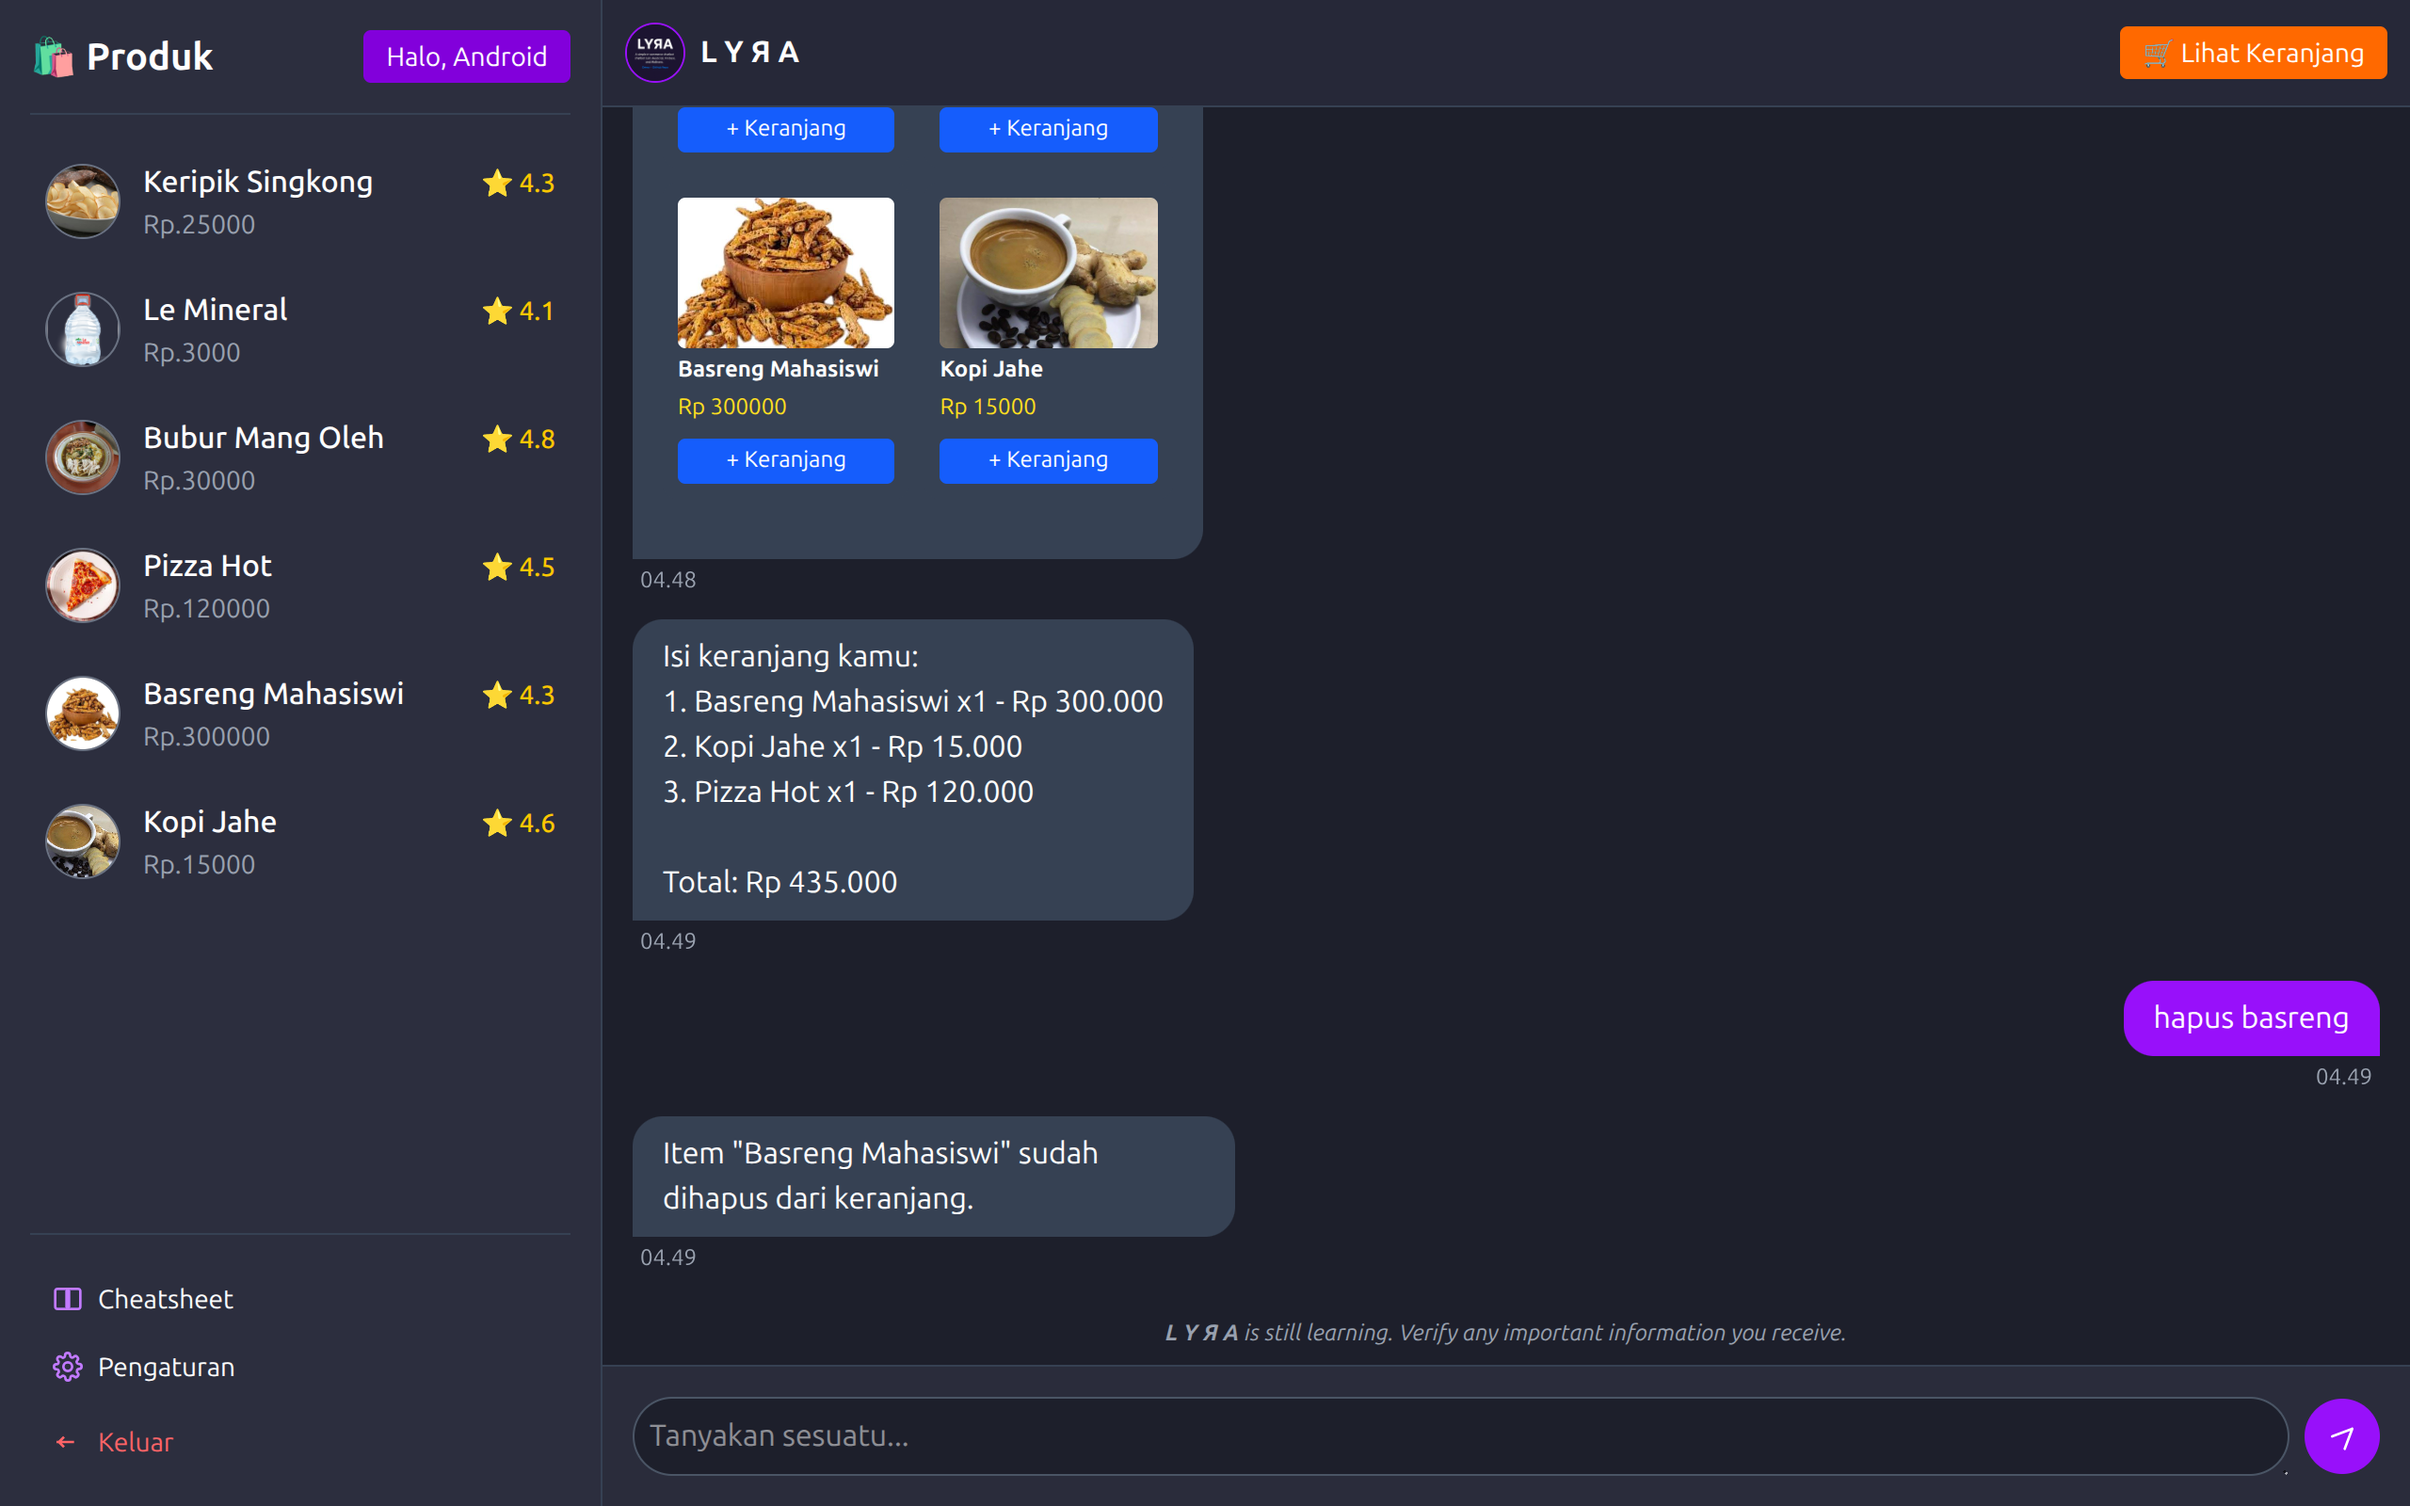
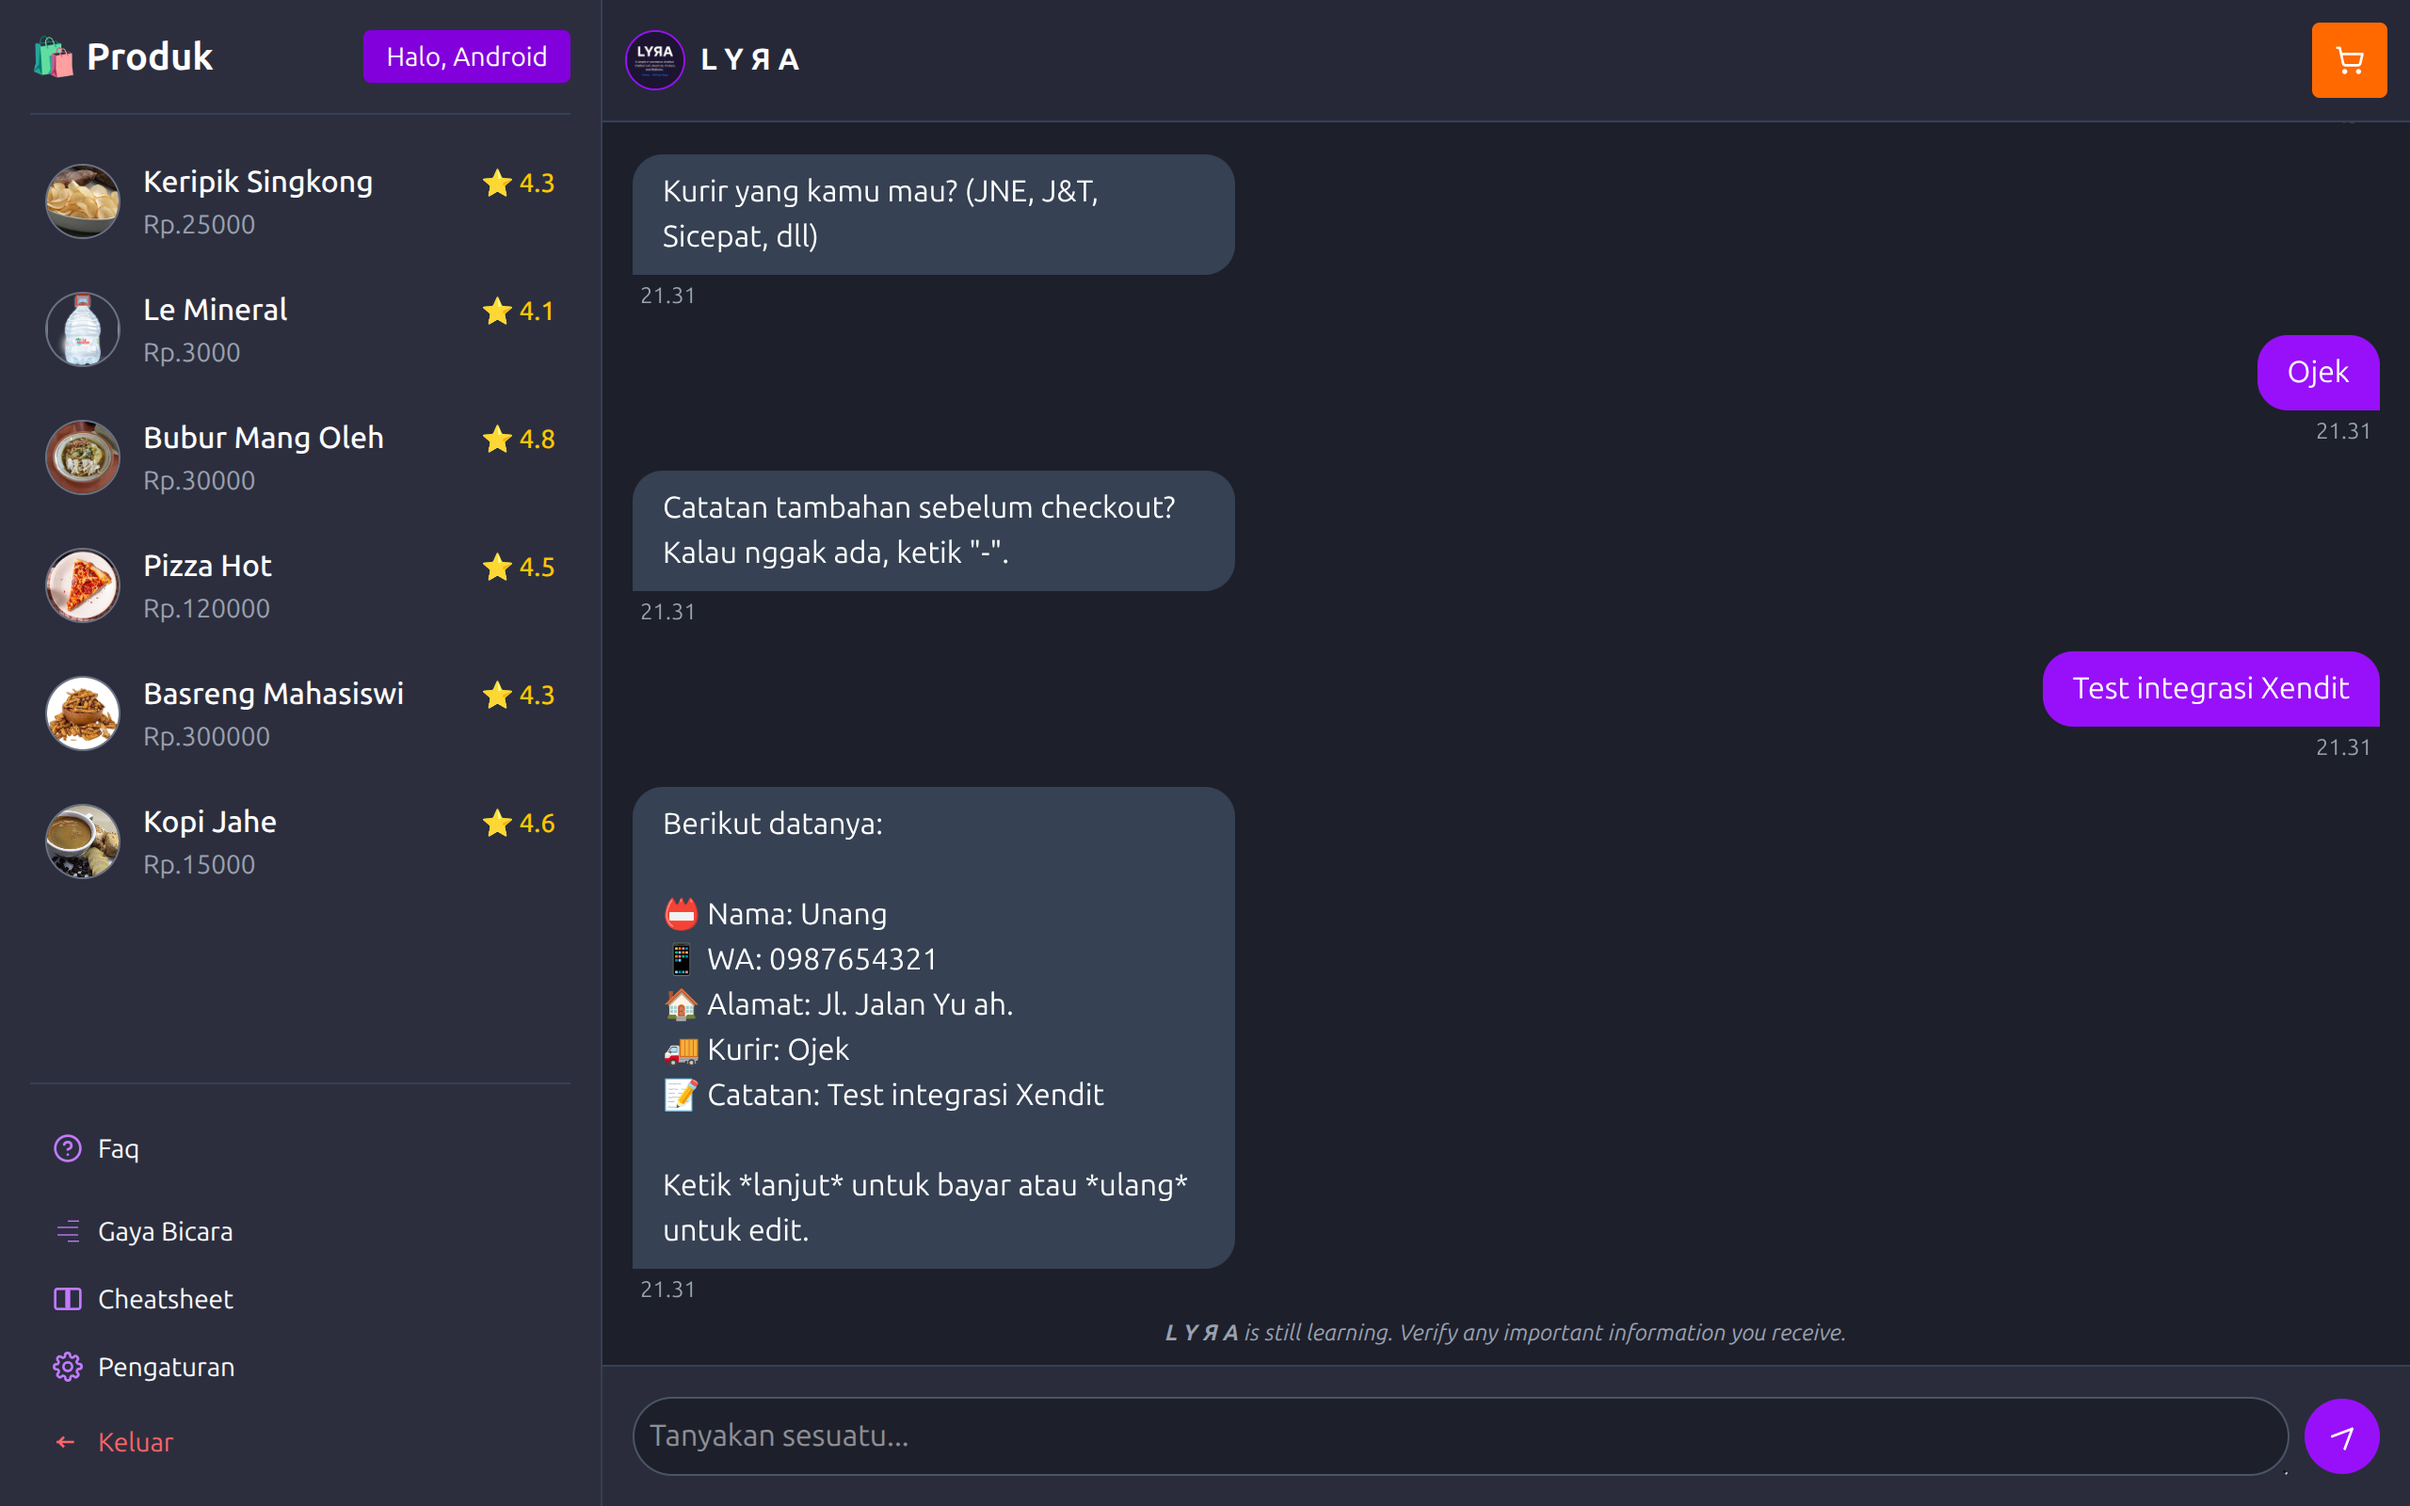
Checkout Flow & Integrasi with Xendit ? Done

diff --git a/src/pages/ChatTelegram.js b/src/pages/ChatTelegram.js
@@ -432,6 +432,22 @@ function generateProductTeaser(product) {
   return teasers[Math.floor(Math.random() * teasers.length)];
 }
 
+document.getElementById('openFaq')?.addEventListener('click', () => {
+  const modal = document.getElementById('faqModal');
+  modal.classList.remove('hidden');
+  setTimeout(() => {
+    modal.querySelector('div').classList.remove('opacity-0', 'scale-95');
+  }, 50);
+});
+
+document.getElementById('closeFaq')?.addEventListener('click', () => {
+  const modal = document.getElementById('faqModal');
+  modal.querySelector('div').classList.add('opacity-0', 'scale-95');
+  setTimeout(() => {
+    modal.classList.add('hidden');
+  }, 300);
+});
+
 function openProductModal(product) {
   document.getElementById('modal-image').src = product.img || '/default.jpg';
   document.getElementById('modal-title').textContent = product.name;
@@ -588,9 +604,9 @@ return `
         <div class="relative bottom-0 left-0">
         <div class="mt-auto pt-4 border-t border-gray-700">
         <!-- Dark/Light mode toggle button -->
-        <button id="themeToggle" class="cursor-pointer flex items-center gap-2 w-full text-sm px-3 py-2 hover:bg-gray-700 rounded-lg transition mb-2">
+        <button id="openFaq" class="cursor-pointer flex items-center gap-2 w-full text-sm px-3 py-2 hover:bg-gray-700 rounded-lg transition mb-2">
         <svg class="w-4 h-4 text-purple-400" xmlns="http://www.w3.org/2000/svg" width="24" height="24" viewBox="0 0 24 24" fill="none" stroke="currentColor" stroke-width="2" stroke-linecap="round" stroke-linejoin="round" class="lucide lucide-circle-question-mark-icon lucide-circle-question-mark"><circle cx="12" cy="12" r="10"/><path d="M9.09 9a3 3 0 0 1 5.83 1c0 2-3 3-3 3"/><path d="M12 17h.01"/></svg>
-          <span id="themeLabel">Faq</span>
+          <span>Bantuan & Faq</span>
         </button>
         <button id="toggleStyle" class=" cursor-pointer flex items-center gap-2 w-full text-sm px-3 py-2 hover:bg-gray-700 rounded-lg transition">
           <svg class="w-4 h-4 text-purple-400" xmlns="http://www.w3.org/2000/svg" fill="none" viewBox="0 0 24 24" stroke="currentColor">
@@ -659,6 +675,40 @@ return `
        </div>
        </div>
 
+      <div id="faqModal" class="fixed inset-0 z-50 hidden bg-black/50 backdrop-blur-sm flex items-center justify-center">
+        <div class="bg-[#2c2e3e] text-white rounded-lg w-11/12 max-w-lg p-6 shadow-lg transform opacity-0 scale-95 transition-all duration-300">
+          <div class="flex justify-between items-center mb-4">
+            <h2 class="text-lg font-bold">❓ Pertanyaan Umum (FAQ)</h2>
+            <button id="closeFaq" class="text-gray-400 hover:text-white cursor-pointer">
+              <svg xmlns="http://www.w3.org/2000/svg" class="lucide lucide-x w-6 h-6" fill="none" viewBox="0 0 24 24" stroke="currentColor" stroke-width="2">
+                <path d="M18 6 6 18"/><path d="M6 6l12 12"/>
+              </svg>
+            </button>
+          </div>
+          <div class="text-sm space-y-4 max-h-[70vh] overflow-y-auto pr-2">
+            <div>
+              <strong>Apa itu L Y Я A?</strong>
+              <p>L Y Я A adalah asisten AI interaktif yang bisa bantu kamu cari produk, melakukan checkout, dan tanya-tanya seputar toko online ini.</p>
+            </div>
+            <div>
+              <strong>Bagaimana cara belanja?</strong>
+              <p>Kamu bisa klik produk di sidebar atau ketik nama produk di chat. Lalu tambahkan ke keranjang dan ketik <code>checkout</code>.</p>
+            </div>
+            <div>
+              <strong>Apa bisa bayar langsung?</strong>
+              <p>Ya! Setelah checkout, kamu bisa bayar lewat Midtrans atau Xendit melalui tautan pembayaran yang muncul di chat.</p>
+            </div>
+            <div>
+              <strong>Batasan user gratis?</strong>
+              <p>User anonim bisa chat maksimal 10x. Login untuk akses lebih banyak fitur!</p>
+            </div>
+            <div>
+              <strong>Data saya aman?</strong>
+              <p>Tentu! Data kamu tidak akan disalahgunakan. Kami hanya menyimpan informasi yang diperlukan untuk proses transaksi.</p>
+            </div>
+          </div>
+        </div>
+      </div>
       <div id="product-modal" class="fixed inset-0 z-50 hide  bg-black/50 backdrop-blur-sm flex items-center justify-center">
         <div id="modal-content" class="bg-[#2a2c3b] opacity-0 scale-95 relative rounded-2xl w-full max-w-xl mx-4 md:mx-auto md:w-[600px] overflow-hidden shadow-lg transition-all">
           <button id="modal-close" class="absolute cursor-pointer top-2 right-4 text-red-800 text-4xl">&times;</button>

diff --git a/src/modules/checkoutHandler.js b/src/modules/checkoutHandler.js
@@ -82,7 +82,7 @@ export async function handleCheckoutInput(text, cartItems) {
     }
 
     if (/lanjut/i.test(text)) {
-      respondWithTyping({ text: 'Siap! Aku lagi proses ke Midtrans ya...' });
+      respondWithTyping({ text: 'Siap! Aku lagi proses ke Xendit ya...' });
 
       try {
         await fetch('https://flat-river-1322.cbp629tmm2.workers.dev/', {
@@ -91,28 +91,44 @@ export async function handleCheckoutInput(text, cartItems) {
           body: JSON.stringify({ checkout: checkoutData, cart: cartItems })
         });
 
-        const res = await fetch('http://localhost:3000/api/checkout', {
+        const res = await fetch('https://weathered-pond-49ef.cbp629tmm2.workers.dev/', {
           method: 'POST',
           headers: { 'Content-Type': 'application/json' },
           body: JSON.stringify({ user: checkoutData, cart: cartItems })
         });
 
+
         if (!res.ok) {
-          console.error('Midtrans request failed:', res.status);
-          respondWithTyping({ text: 'Ups! Gagal kirim ke Midtrans 😓' });
+          console.error('Xendit request failed:', res.status);
+          respondWithTyping({ text: 'Ups! Gagal kirim ke Xendit 😓' });
           return true;
         }
 
         const json = await res.json();
 
-        if (!json.snapToken) {
-          respondWithTyping({ text: 'Midtrans tidak memberikan token 😥. Coba lagi ya.' });
-          return true;
-        }
+        if (json.invoice_url) {
+        const totalHarga = Object.values(cartItems).reduce((sum, item) => sum + (item.price * item.qty), 0);
+        const itemList = Object.values(cartItems).map((item, i) => {
+        return `${i + 1}. ${item.name} x${item.qty} - Rp ${item.price * item.qty}`;
+        }).join('<br>');
 
         respondWithTyping({
-          html: `<a href="#" onclick="snap.pay('${json.snapToken}')" class="text-blue-400 underline">Klik di sini untuk bayar via Midtrans</a>`
+        sender: 'lyra',
+        html: `
+            <div class="text-sm leading-relaxed">
+            <strong>🧾 Pesanan kamu:</strong><br>
+            ${itemList}<br><br>
+            <strong>💰 Total: Rp ${totalHarga.toLocaleString('id-ID')}</strong><br><br>
+            <a href="${json.invoice_url}" target="_blank" class="inline-block mt-2 bg-blue-600 text-white px-4 py-2 rounded hover:bg-blue-700 transition">
+                👉 Klik di sini untuk bayar via Xendit
+            </a>
+            </div>
+        `
         });
+        } else {
+        respondWithTyping({ sender: 'lyra', text: 'Xendit tidak memberikan tautan pembayaran 😥. Coba lagi ya.' });
+        }
+
 
         checkoutStep = 0;
         checkoutData = {};

diff --git a/public/success.html b/public/success.html
@@ -1,0 +1,31 @@
+<!DOCTYPE html>
+<html lang="id">
+<head>
+  <meta charset="UTF-8" />
+  <meta name="viewport" content="width=device-width, initial-scale=1.0" />
+  <title>Pembayaran Berhasil | LYRA</title>
+  <link rel="icon" href="/logo.png" />
+  <link href="https://cdn.jsdelivr.net/npm/tailwindcss@2.2.19/dist/tailwind.min.css" rel="stylesheet">
+</head>
+<body class="bg-[#1d1f2b] text-white transition-colors duration-300 min-h-screen flex flex-col items-center justify-center p-6 text-center" style="background: #1d1f2b;">
+  <img src="/logo.png" alt="LYRA Logo" class="w-16 h-16 rounded-full border border-purple-500 mb-4" />
+  
+  <h1 class="text-2xl md:text-3xl font-bold text-green-400">🎉 Pembayaran Berhasil!</h1>
+  <p class="mt-2 text-sm md:text-base text-gray-300">Terima kasih sudah belanja di toko kami. Pesananmu sedang kami proses! 🚚</p>
+
+  <div class="mt-4">
+    <p class="text-sm text-gray-400">🧾 ID Pesanan:</p>
+    <p id="orderId" class="text-yellow-300 font-mono text-lg">memuat...</p>
+  </div>
+
+  <a href="/" class="mt-8 inline-block bg-purple-600 hover:bg-purple-700 text-white px-6 py-2 rounded-lg transition">
+    Kembali ke Beranda
+  </a>
+
+  <script>
+    const params = new URLSearchParams(window.location.search);
+    const orderId = params.get("order_id");
+    document.getElementById("orderId").textContent = orderId || 'Tidak tersedia';
+  </script>
+</body>
+</html>

diff --git a/src/modules/intentHandler.js b/src/modules/intentHandler.js
@@ -97,9 +97,9 @@ export function generateTone(text, style = 'default') {
 export const LYRA_PROFILE = {
   name: 'Lyra',
   age: 'sekitar awal 20-an',
-  role: 'asisten AI yang ramah dari toko ini',
-  style: 'smart, suka menawarkan produk yang ada di sidebar, dan siap bantuin apa aja',
-  motto: 'Best seller, Better store!'
+  role: 'sales AI yang ramah dari toko ini',
+  style: 'smart, suka menawarkan produk yang ada di sidebar & database, dan siap bantuin apa aja',
+  motto: 'Best sales, Better store!'
 };
 
 export function generatePersonaResponse(text) {

diff --git a/public/underconstruction.html b/public/underconstruction.html
@@ -8,7 +8,7 @@
 </head>
 <body class="text-center px-6">
   <h1 class="text-4xl font-bold text-yellow-400 mb-3">🚧 Sedang Dibangun!</h1>
-  <p class="mb-6 text-gray-300">Fitur ini belum siap tayang, tapi LYRA dan tim lagi ngebut ngerjainnya! 💪</p>
+  <p class="mb-6 text-gray-300">Fitur ini belum siap tayang, tapi L Y Я A dan tim lagi ngebut ngerjainnya! 💪</p>
   <a href="/" class="bg-yellow-500 px-4 py-2 rounded text-black hover:bg-yellow-600 transition">Balik ke Beranda</a>
 </body>
 </html>
